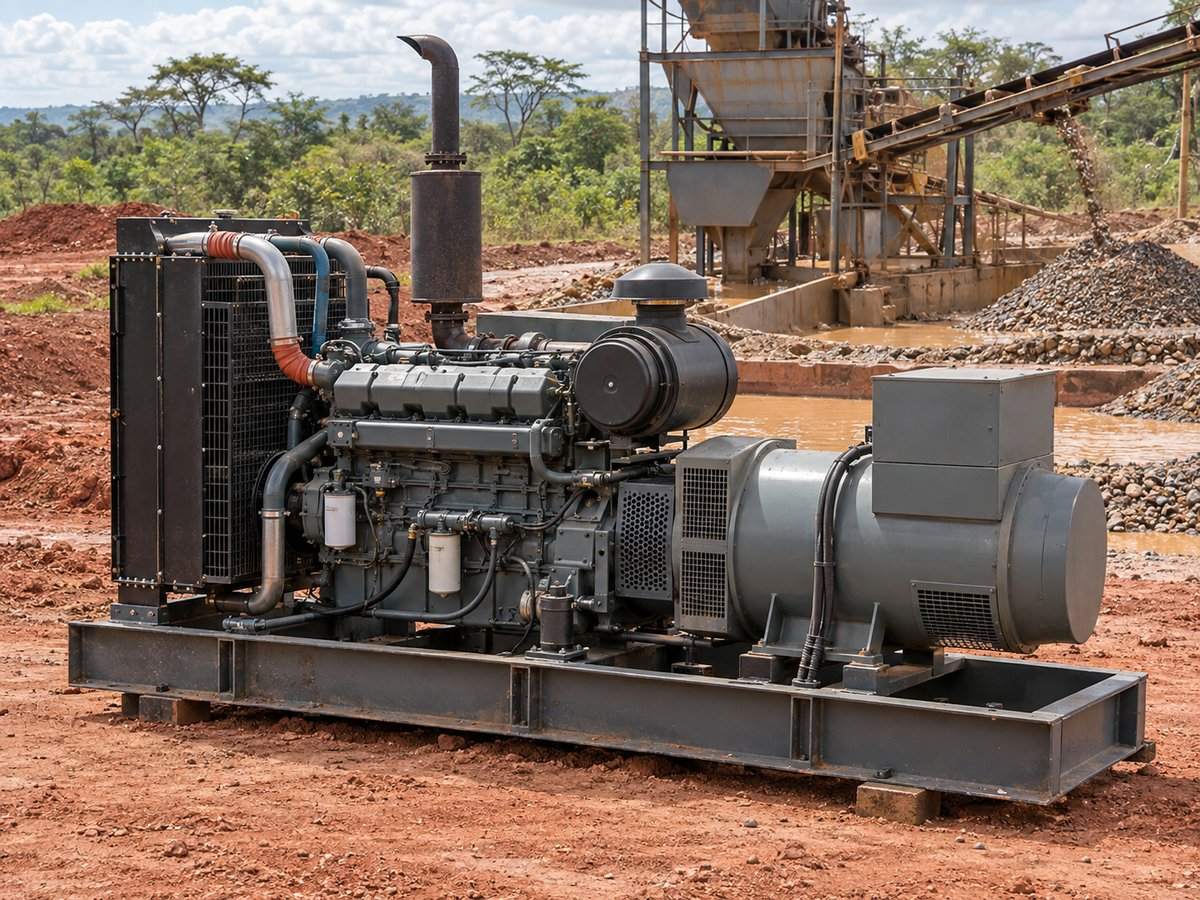
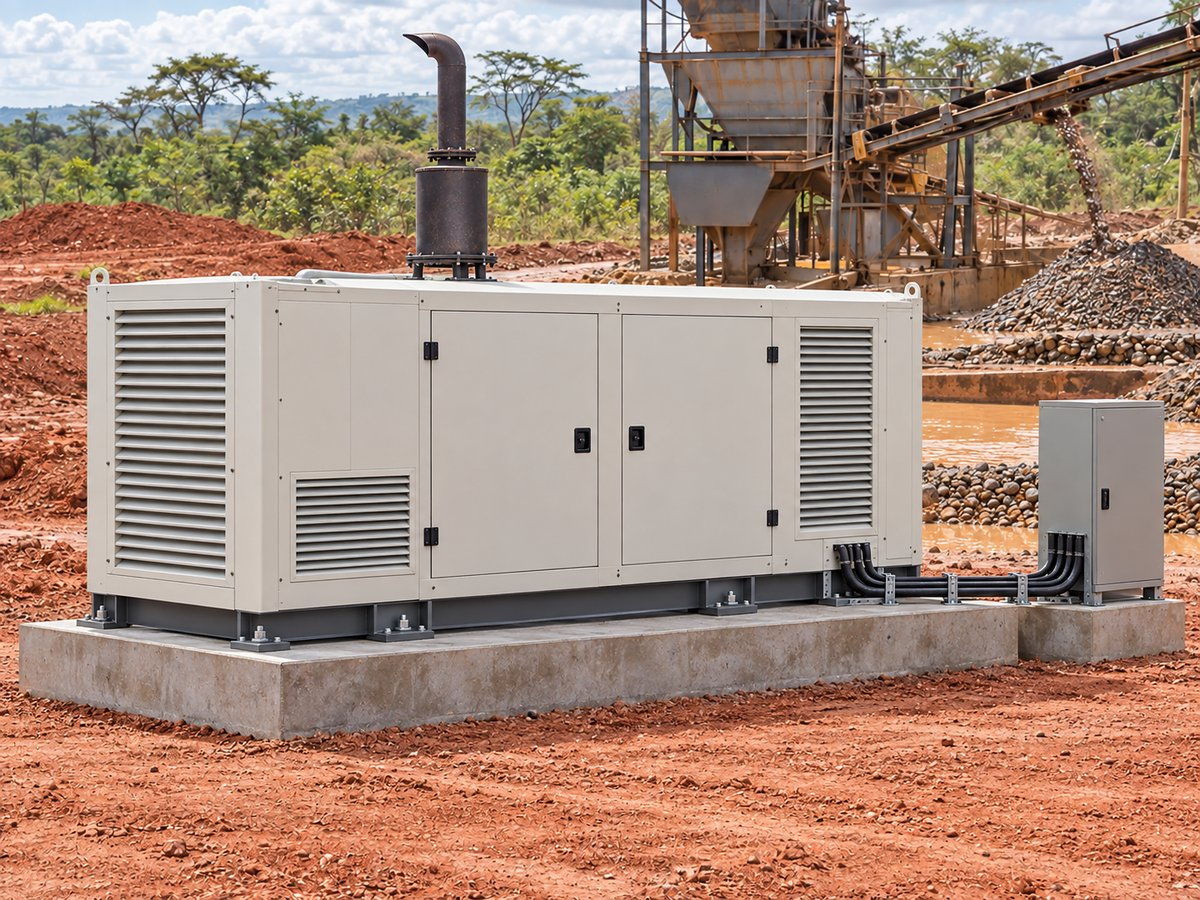
Add IndexNow and the updated 300-500 kVA image
IndexNow key file at the site root and scripts/indexnow.mjs (npm run
indexnow) to notify Bing and other IndexNow engines when pages change.
Replaces band-300-500.jpg with an enclosed set, as in the updated brief,
and updates its alt text to match.

diff --git a/src/lib/rental-images.ts b/src/lib/rental-images.ts
@@ -40,7 +40,7 @@ export const heroImage = () =>
 export const townImage = (slug: string, alt: string) => findRentalImage(`town-${slug}`, alt)
 
 export const BAND_IMAGES = [
-  { file: 'band-300-500', alt: 'Open-frame diesel generator of around 400 kVA on a wash plant site' },
+  { file: 'band-300-500', alt: 'Enclosed diesel generator of around 400 kVA on a concrete plinth beside a small wash plant' },
   { file: 'band-500-1000', alt: 'Containerised diesel generator of around 800 kVA beside a crushing and milling circuit' },
   { file: 'band-1000-2500', alt: 'Two containerised generators running synchronised at a large processing plant' },
 ]

diff --git a/docs/image-brief-generator-rental.md b/docs/image-brief-generator-rental.md
@@ -43,7 +43,7 @@
 ### Size bands (shown above the size table)
 | File | Shows |
 |---|---|
-| `band-300-500.jpg` | An **open-frame** diesel generator of around 400 kVA (engine and alternator on a skid, no enclosure) beside a small alluvial wash plant. |
+| `band-300-500.jpg` | A **fully enclosed containerised** diesel generator of around 400 kVA beside a small alluvial wash plant. Securely mounted on a continuous level concrete plinth, with closed service doors, ventilation grilles and neatly routed power cables to a distribution cabinet. |
 | `band-500-1000.jpg` | A **single containerised generator** of around 800 kVA beside a crushing and milling circuit. |
 | `band-1000-2500.jpg` | **Two or three containerised generators in a row**, with a synchronising panel, at a large processing plant. |
 

diff --git a/docs/content-and-implementation-plan.md b/docs/content-and-implementation-plan.md
@@ -218,6 +218,9 @@ Also ask every caller "How did you find us?" and log it:
 |---|---|---|---|---|---|---|
 | 2026-10-0? | Call | Generator rental | 200–2,500 kVA | | | Triggered Phase 0 |
 
+### IndexNow (Bing, Copilot, ChatGPT search)
+Key file: `public/eca3ee9f25478f46b75983cf8d5327f5.txt` (public by design). After any deploy that adds or changes pages, run `npm run indexnow` (whole sitemap) or `npm run indexnow -- generator-rental` (matching URLs). Google ignores IndexNow; use Search Console for Google. Add the site in Bing Webmaster Tools too (Allan).
+
 ### Google Business Profile
 Check monthly: searches, calls and direction requests, especially for "generator rental" queries after 0.8.
 
